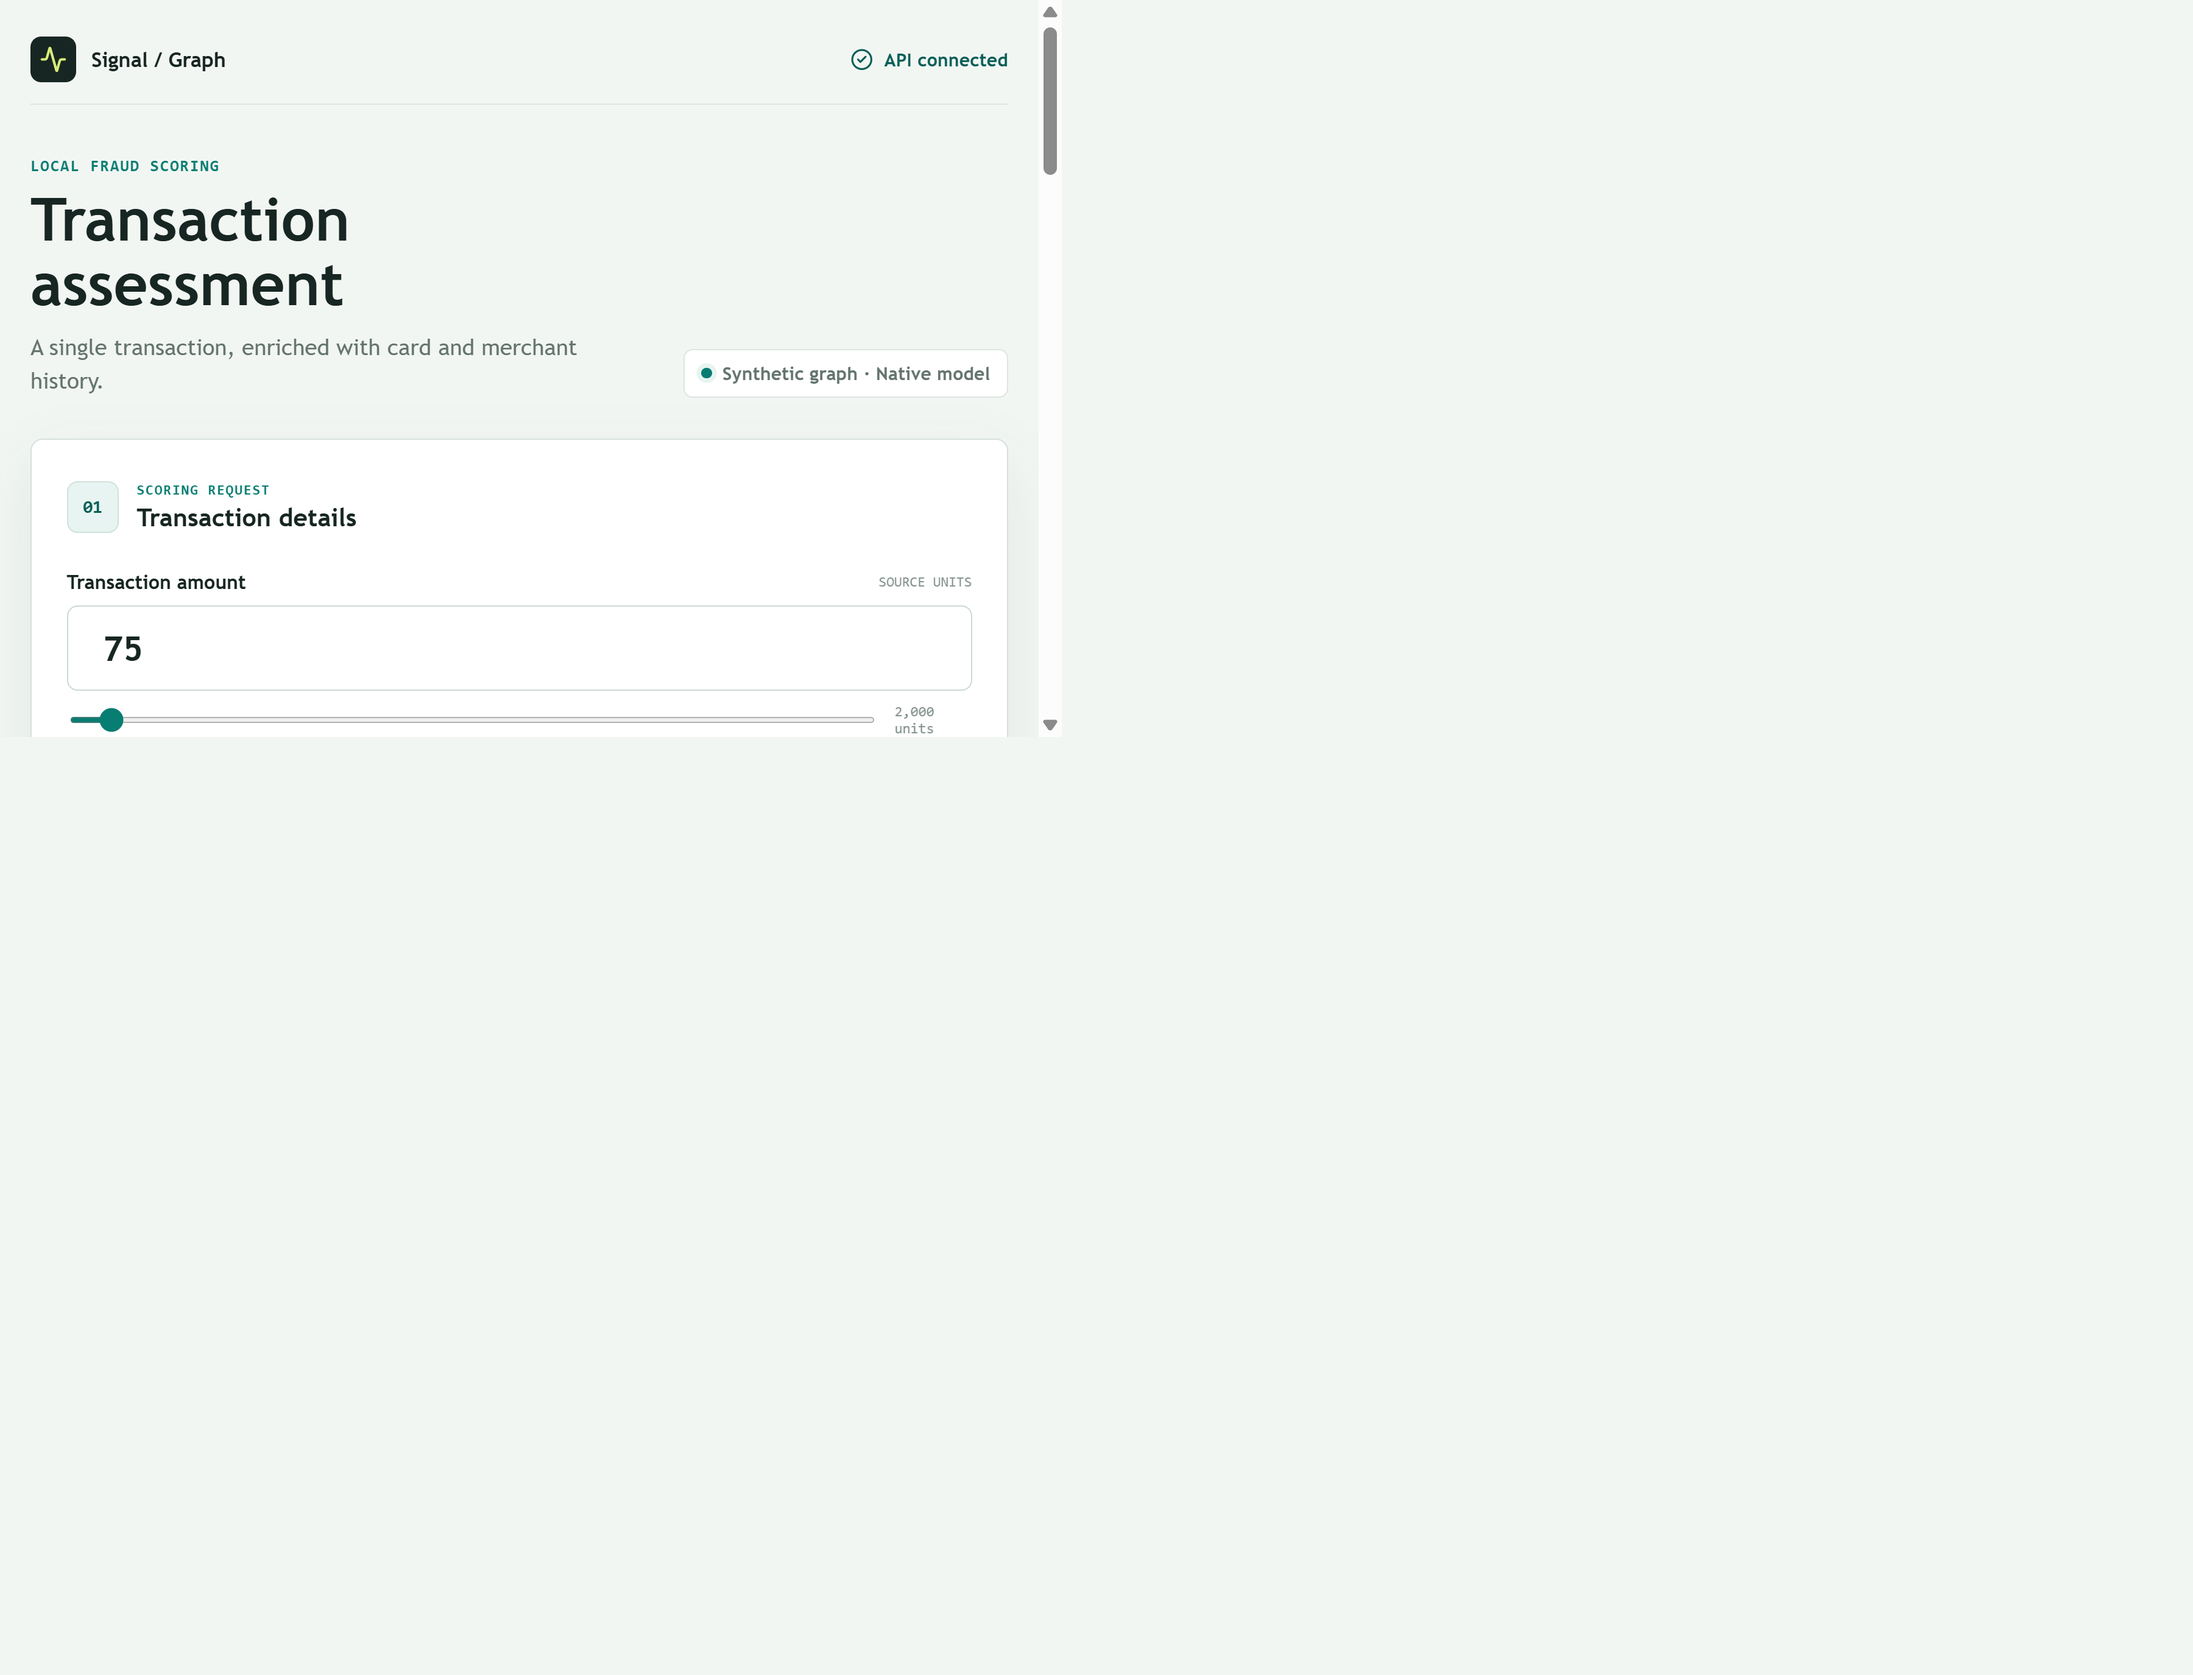
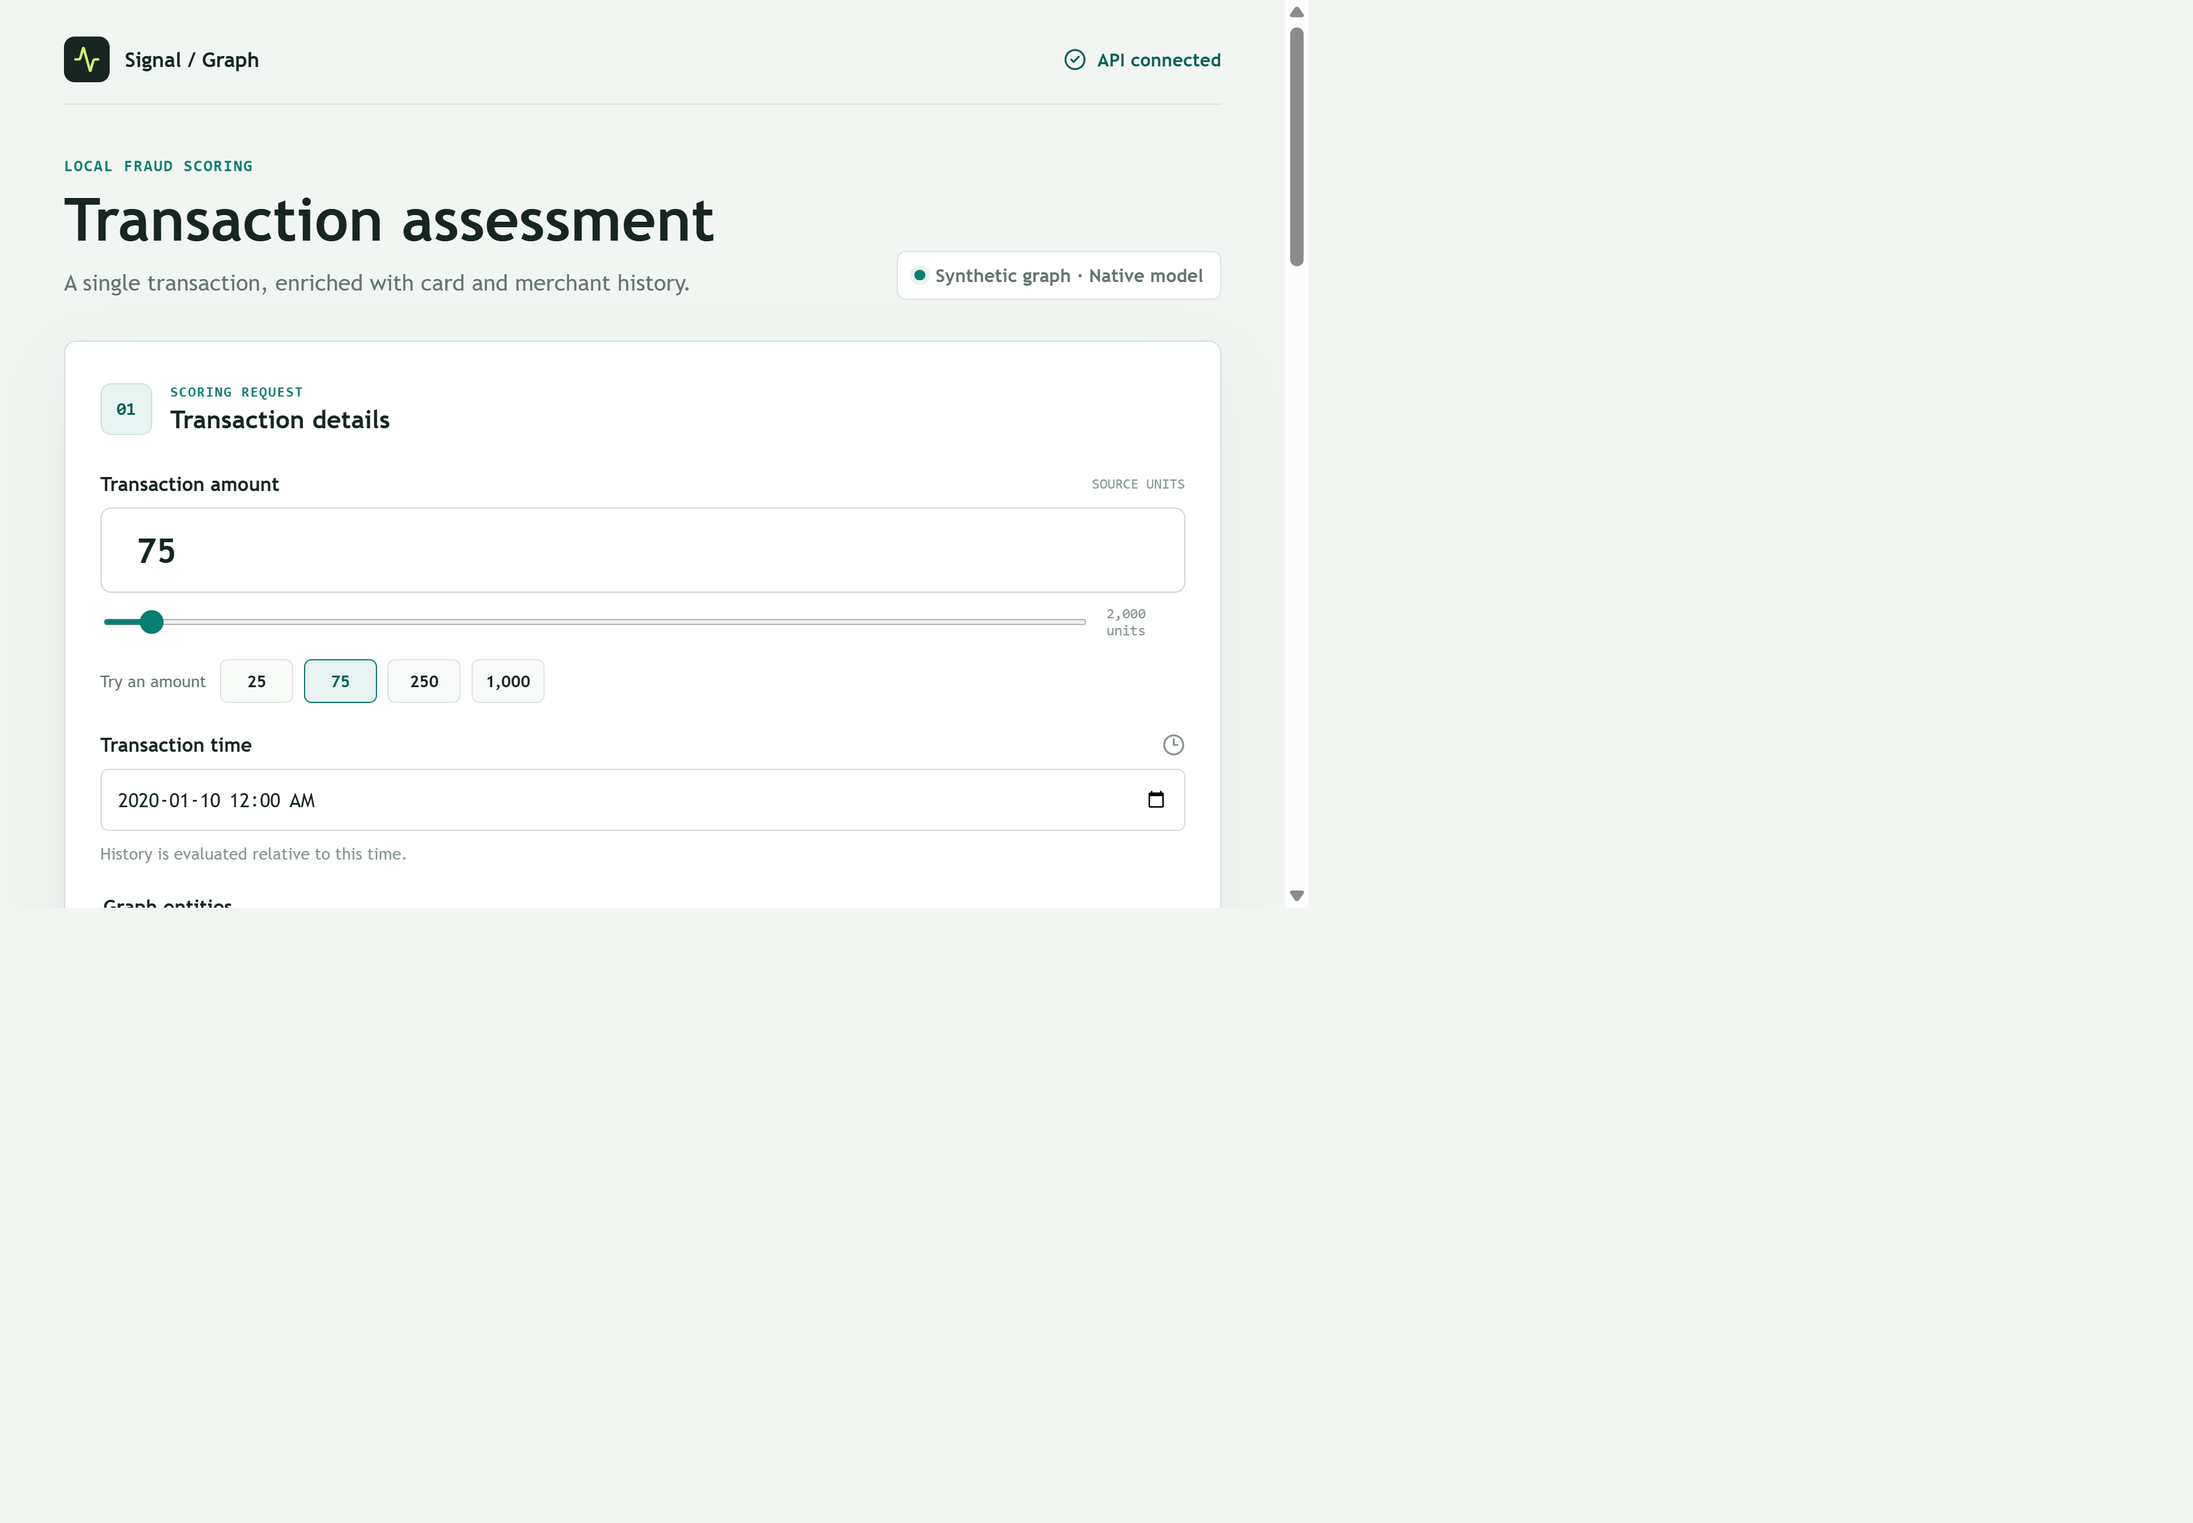
Document graph value and leakage controls

diff --git a/FastAPI/SCORE_EVIDENCE_INSPECTION.md b/FastAPI/SCORE_EVIDENCE_INSPECTION.md
@@ -77,8 +77,18 @@ was streamed into temporary storage. The evaluator did not need to turn all
 source rows into graph triples just to construct and compare the feature stages.
 
 This was an engineering choice, not a measured DuckDB-versus-RDF benchmark. No
-claim is made that DuckDB is faster or more accurate than an RDF store. The
-separate RDF path is used by the local scoring demo and synthetic graph tests.
+claim is made that either storage option is faster or produces better predictions
+without identical feature definitions, data, temporal rules, and splits.
+
+The graph value in this solution is architectural rather than proven as an
+accuracy gain. RDF represents the transaction, client, card, merchant, and label
+relationships directly. SPARQL gives those relationships a reusable vocabulary,
+explicit point-in-time filters, and traceable evidence. This can simplify adding
+new source systems or relationship-based features, and it keeps the model behind
+A0/B1/C1 feature names instead of source-table details. SQL remains appropriate
+for a high-throughput offline batch and for controlled feature-stage evaluation.
+The five-row RDF/SQL smoke check establishes formula consistency only; it does
+not establish full-data parity or graph-attributable model uplift.
 
 ## What the two paths do
 
@@ -150,6 +160,42 @@ ratio denominators map to zero.
 | A0 | Amount, yearly income, credit limit, age, credit score |
 | A+B (AB) | A0 plus prior card transaction count, prior average amount, amount/prior-average ratio, and hours since previous card transaction |
 | A+B+C (ABC) | A+B plus merchant prior transaction count, fraud count/rate, distinct-card count, distinct fraud-card count, and fraud-card ratio |
+
+### C1 feature selection and leakage control
+
+The C1 feature set extends A+B with six merchant-level signals selected to
+represent four useful dimensions:
+
+- **Volume:** distinct prior transaction count.
+- **Observed fraud:** prior fraud count and fraud rate.
+- **Breadth:** distinct prior card count.
+- **Concentration:** distinct fraud-card count and fraud-card ratio.
+
+Together, these features test whether a merchant's historical transaction volume,
+fraud proportion, and card concentration add information beyond static and card
+history. Each rate has an explicit zero denominator: no eligible history yields
+zero, rather than an error or unbounded value.
+
+The point-in-time rules are explicit. Card history uses only transaction IDs
+strictly earlier than the scoring event, with same-second rows excluded. Merchant
+history uses only the same merchant and transactions at least 604,800 seconds
+(seven days) earlier than the scoring event. Current, same-time, and future
+transactions do not contribute. Both windows are cumulative, so the features
+summarize earlier history rather than a rolling seven-day slice.
+
+For training and evaluation, the labeled rows are ordered by event time and
+transaction ID before the 80/20 split. Test labels are not used to fit XGBoost,
+only to calculate held-out metrics. Negative sampling is restricted to the first
+80% training partition; test prevalence remains unchanged. The three feature
+stages reuse the same chronological partition and sampled training rows.
+
+This is a strong temporal guard against direct future-row leakage, but it is
+not complete label-arrival leakage protection. The source provides a fraud label,
+not the date and time that the label became available. The seven-day lag is an
+assumption used consistently across features and evaluation. A production
+implementation should obtain a label timestamp and model availability explicitly;
+otherwise C1 may contain more label information than would be available to an
+operating scorer.
 
 Card history uses labeled transactions strictly before the current event (same-
 second rows are excluded by the one-second window boundary). Merchant history is

diff --git a/README.md b/README.md
@@ -40,11 +40,34 @@ flowchart TB
 The two paths are intentionally separate today: scoring queries RDF, while the
 exploratory feature-stage evaluation uses DuckDB over flat files.
 
+### Why use a graph here?
+
+A graph brings the pieces of a transaction into one connected view: client,
+card, merchant, transaction, and fraud label. It gives card and merchant history
+named relationships, reusable time rules, and traceable feature values.
+
+The main advantages for this project are:
+
+- **Connected context:** one query can retrieve customer, card, and merchant
+  history instead of spreading repeated joins across application code.
+- **Shared rules:** feature names and time cutoffs live in a named graph model,
+  so different services can use the same definitions.
+- **Visible evidence:** the workbench can show the history values that were
+  supplied to the model.
+- **Easier integration:** new systems or source tables can add relationships
+  without changing the model’s fixed 15-feature input contract.
+
+These are engineering and integration advantages, not a proven increase in
+accuracy. SQL can calculate the same values efficiently. This repository uses
+DuckDB in the offline comparison to test feature stages without mixing graph
+and storage concerns. A fair graph-versus-SQL benchmark would need identical
+features, data, splits, and label-availability rules.
+
 ## Preview
 
 The screenshot uses the synthetic local graph and model.
 
-![Transaction assessment workbench with synthetic graph data](docs/workbench-preview.png)
+<img src="docs/workbench-preview.png" width="960" alt="Transaction assessment workbench using synthetic graph data">
 
 ## The engineering path
 
@@ -63,6 +86,35 @@ The graph path makes relationships and time rules explicit. That's the idea
 we're testing, not proof that graphs improve fraud detection. The current large
 evaluation computes history features with DuckDB from flat files; it tests the
 feature stages, not RDF-versus-SQL performance.
+
+### Why C1 features were added
+
+C1 summarizes the behavior of the same merchant before the current transaction:
+
+- **Merchant prior transaction count** describes how much history is available.
+- **Prior fraud count** and **fraud rate** measure the merchant's observed risk.
+- **Prior unique cards** describes reach across different cards.
+- **Prior unique fraud cards** and **fraud-card ratio** identify whether fraud is
+  concentrated in a small set of cards at that merchant.
+
+These six signals cover volume, observed fraud proportion, customer breadth,
+and concentration. Zero history maps to count/rate zero rather than allowing a
+missing denominator to produce an invalid model value.
+
+C1 history is strictly point-in-time: a merchant transaction is eligible only
+when it belongs to the same merchant, has a known fraud label, and is at least
+604,800 seconds (seven days) older than the scored transaction. Card history is
+also strictly earlier than the scored event, so same-time and future rows are
+excluded. The model table is split chronologically before training: the first
+80% trains the models and the final 20% is held out without downsampling. Fraud
+labels from test rows never train the models, and only training rows are
+negatively sampled.
+
+The seven-day cutoff is a leakage-control assumption, not proof that labels
+really became available after exactly seven days. The source data has no
+label-arrival timestamp. If actual labels arrived sooner or later, C1 could
+contain a label-arrival bias. Production use should replace this proxy with an
+explicit label timestamp and recalculate features with it.
 
 ## Platform context
 

diff --git a/PROJECT_STORY.md b/PROJECT_STORY.md
@@ -21,11 +21,12 @@ inputs, and show the evidence behind a result?
    adds merchant aggregates from labeled transactions at least seven days old.
    The temporal rules are explicit and tested; the data does not contain label
    arrival timestamps, so the seven-day delay remains an assumption.
-3. **Represent relationships as graph data.** A small RDF vocabulary and
-   read-only SPARQL queries connect transactions with cards, customers, and
-   merchants. The importer accepts a bounded set of fields and discards
-   unrelated columns. This makes the feature path inspectable; it does not, by
-   itself, prove better accuracy or better performance than SQL.
+3. **Represent relationships as graph data.** RDF and SPARQL connect
+   transactions with customers, cards, merchants, and labels. The graph gives
+   relationship-based history a named, reusable structure and makes the values
+   traceable for a single score. It also keeps graph details behind the fixed
+   model input contract. SQL can calculate the same values, so this project does
+   not claim a graph accuracy or SQL speed advantage without a controlled test.
 4. **Separate features from inference.** A fixed 15-feature interface feeds a
    native XGBoost model. The local provider checks names and values at the
    boundary, so feature drift fails clearly instead of producing a plausible
